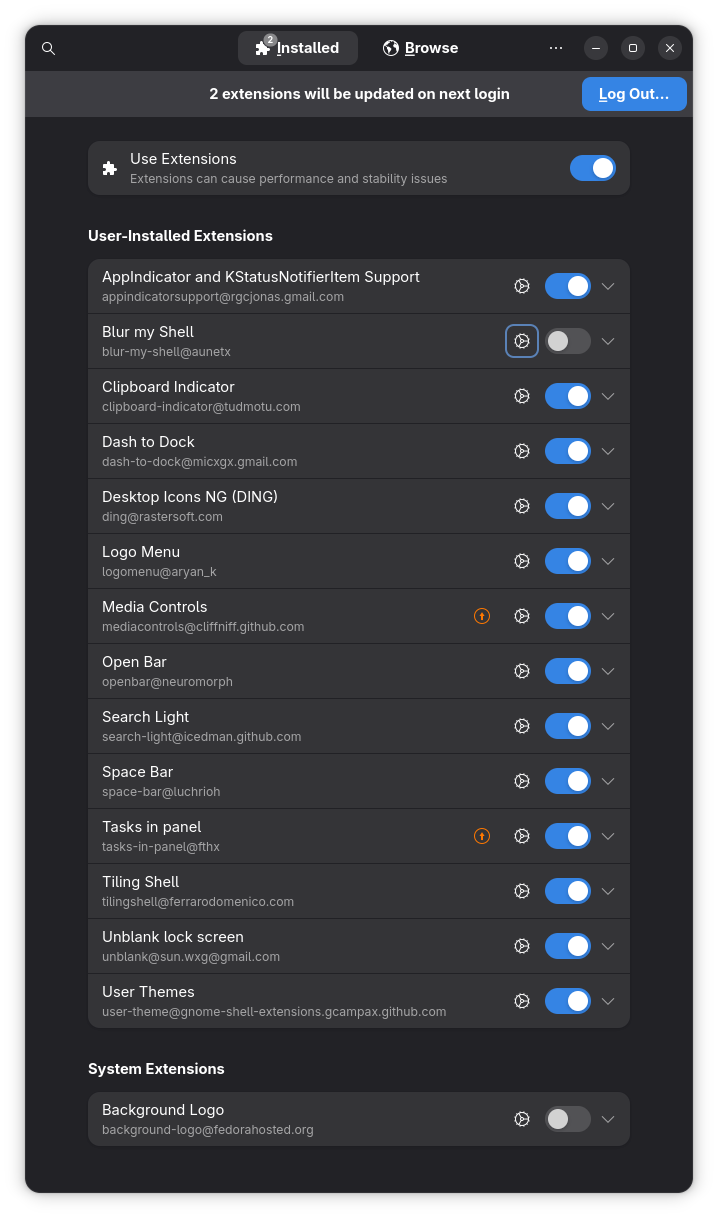
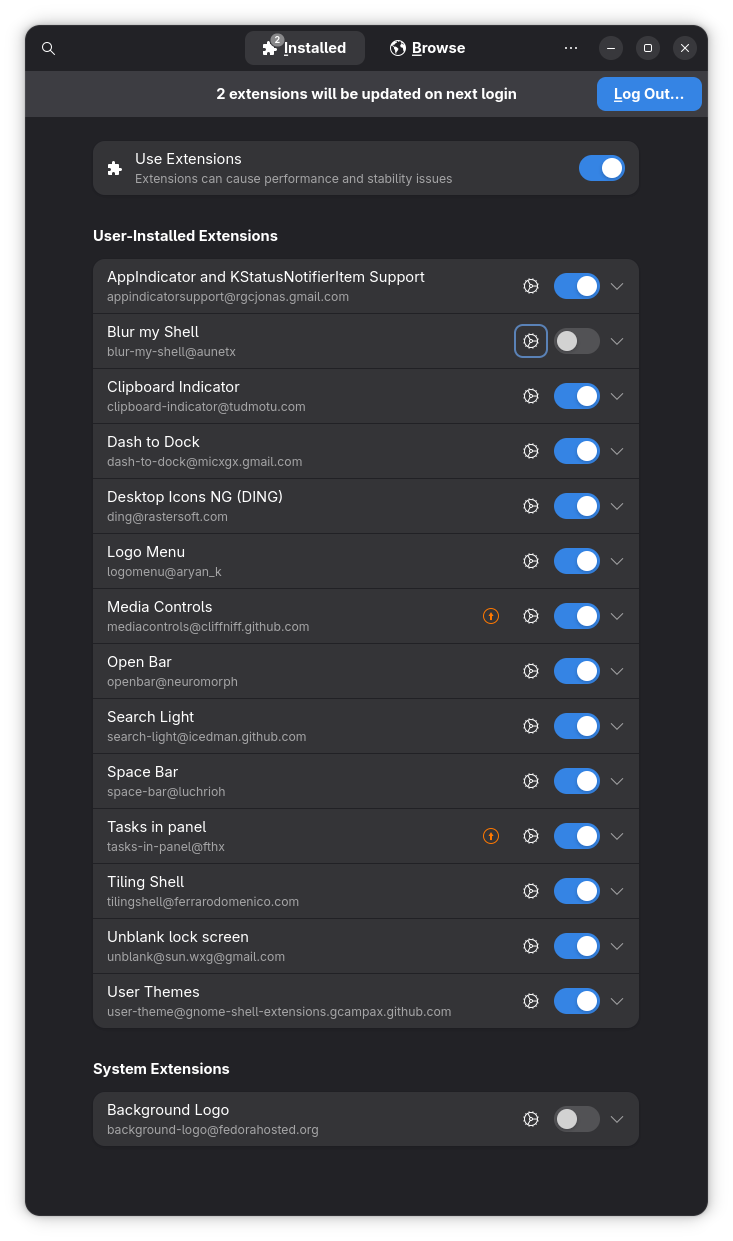
docs: move updated screenshot to README top and remove duplicate section

diff --git a/README.md b/README.md
@@ -2,6 +2,8 @@
 
 Fedora odakli, paylasima uygun kisisel desktop config paketi.
 
+![GNOME Extensions mevcut durum](assets/extensions-manager-screenshot.png)
+
 ## Icerik
 
 - `gnome-extensions/enabled-extensions.txt`: Aktif edilmesi istenen GNOME extension UUID listesi
@@ -48,10 +50,6 @@ Not:
 - `blur-my-shell` bu repoda bilerek kapali tutuluyor (enabled listede yok).
 - Neden: `blur-my-shell` ozellikle pencere/background blur efektlerinde sistemi ciddi sekilde yorabiliyor; CPU/GPU yukunu arttirip takilma ve animasyon gecikmesi yaratabiliyor.
 - Acmak istersen: `gnome-extensions enable blur-my-shell@aunetx`
-
-## Extensions Durumu (Ekran Goruntusu)
-
-![GNOME Extensions mevcut durum](assets/extensions-manager-screenshot.png)
 
 ## Manuel Kurulum
 
